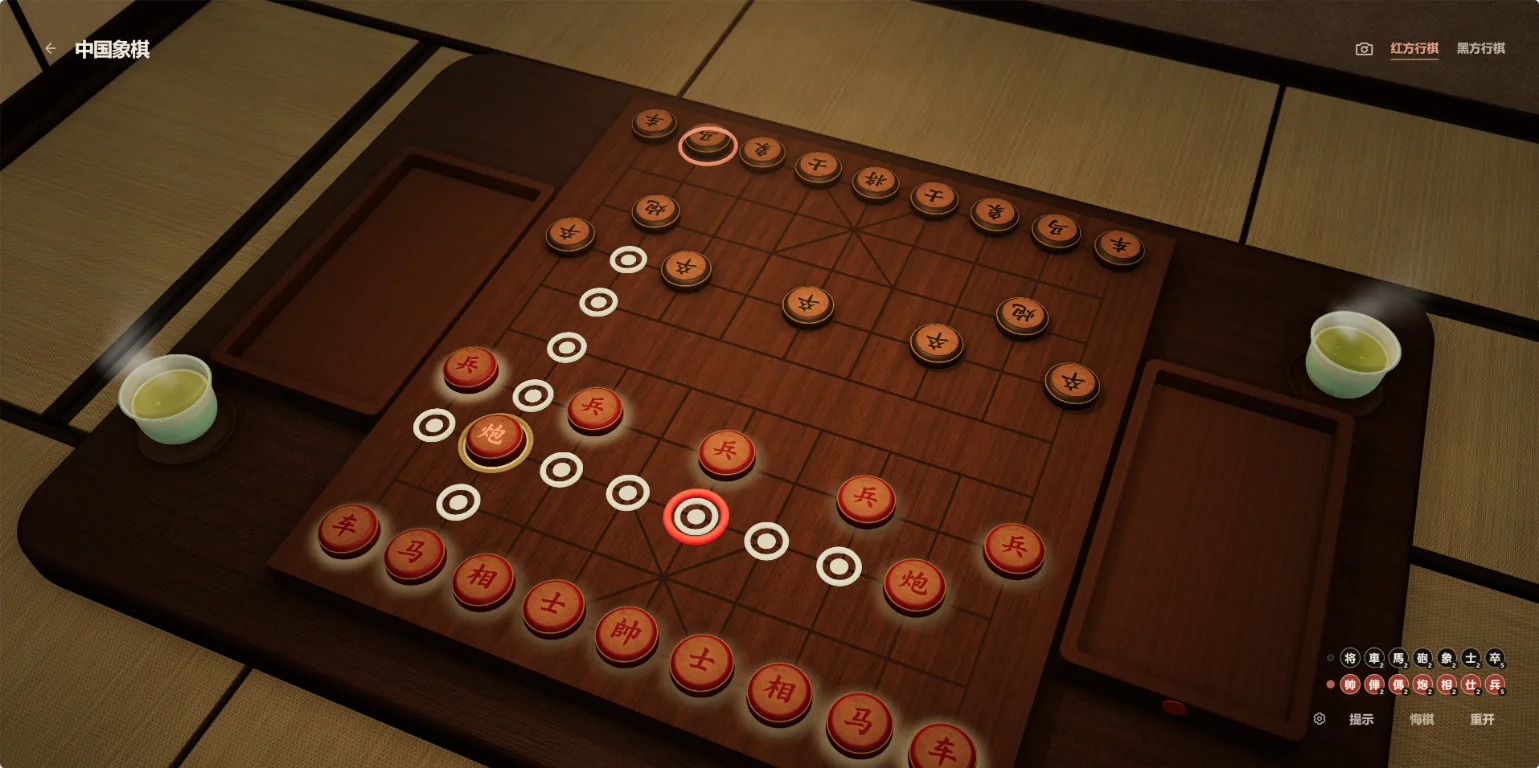
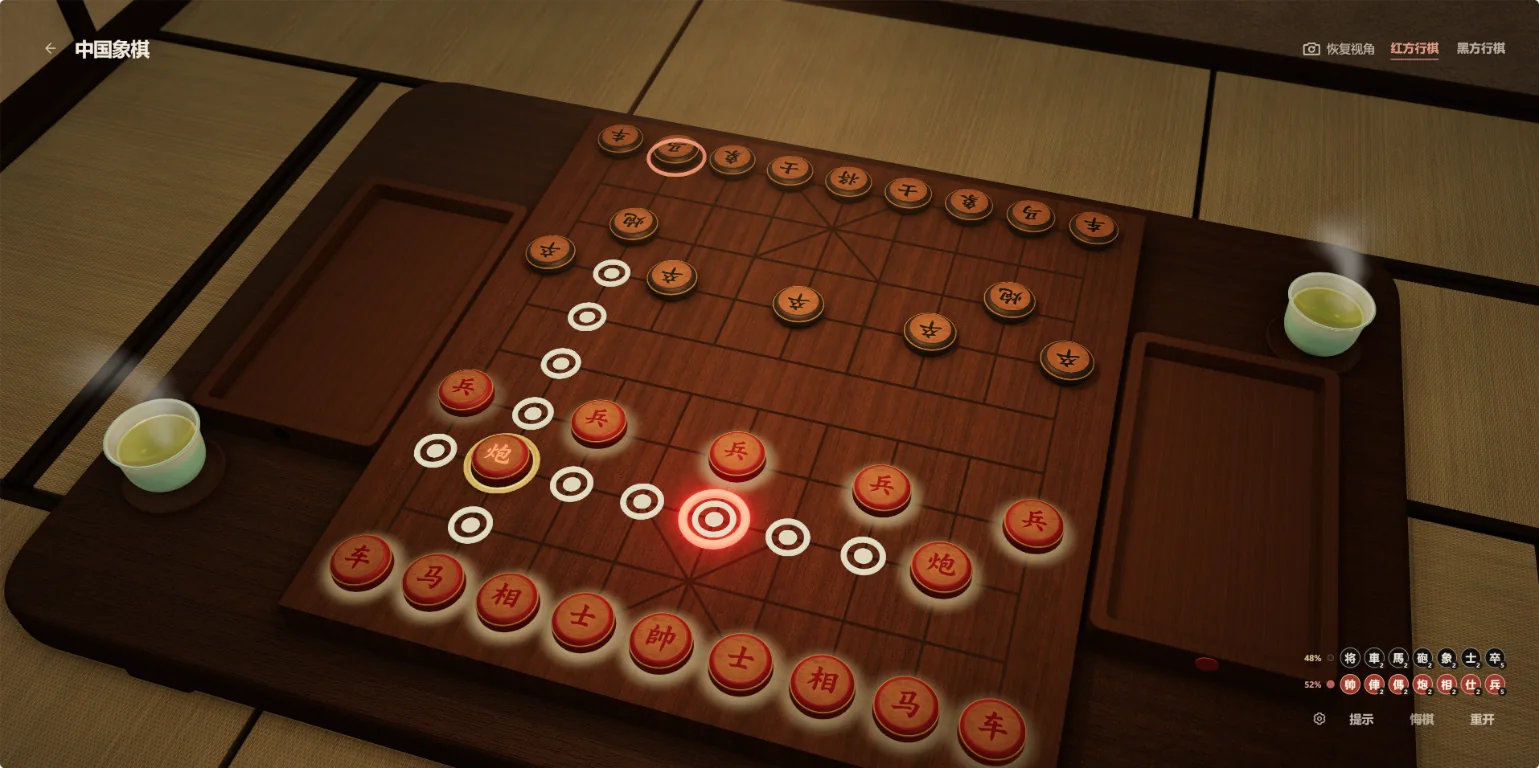
Refresh README screenshot and refine material rendering
Replace the README image with a compressed WebP and document the rendering techniques. Reuse the room reflection map on wood and pieces, add subtle procedural surface variation, and keep the reset-view label within the camera button.

diff --git a/src/board-renderer.ts b/src/board-renderer.ts
@@ -204,6 +204,7 @@ export class BoardRenderer {
   private wasPortrait = false;
   private pendingViewSide: number | null = null;
   private pieceAtlas: THREE.Texture | null = null;
+  private environmentMap!: THREE.Texture;
   private hoveredPiece: ChessPiece | null = null;
   private readonly menuGlyphStrength = new THREE.Uniform(0);
   private readonly pieceGlyphs = new Map<THREE.Group, PieceGlyphGlow>();
@@ -270,6 +271,7 @@ export class BoardRenderer {
     this.buildEnvironment();
     this.buildBoard();
     this.room = new ChessRoom(this.scene, this.boardSurface.material, this.renderer);
+    this.environmentMap = this.room.environmentMap;
     const sceneDepth = this.ssaoPass.normalRenderTarget.depthTexture;
     if (!sceneDepth) throw new Error("Room atmosphere requires the scene depth texture.");
     this.atmospherePass = new RoomAtmospherePass(
@@ -899,7 +901,23 @@ export class BoardRenderer {
       metalness: 0.02,
       clearcoat: 0.12,
       clearcoatRoughness: 0.5,
+      envMap: this.environmentMap,
+      envMapIntensity: 0.22,
     });
+    bodyMaterial.onBeforeCompile = shader => {
+      shader.vertexShader = `varying vec3 vPieceSurfacePosition;\n${shader.vertexShader}`.replace(
+        "#include <begin_vertex>",
+        "#include <begin_vertex>\nvPieceSurfacePosition = transformed;",
+      );
+      shader.fragmentShader = `varying vec3 vPieceSurfacePosition;\n${shader.fragmentShader}`.replace(
+        "#include <roughnessmap_fragment>",
+        `#include <roughnessmap_fragment>
+float pieceSurfaceGrain = sin(vPieceSurfacePosition.x * 31.0 + sin(vPieceSurfacePosition.y * 17.0))
+  * sin(vPieceSurfacePosition.z * 27.0 + vPieceSurfacePosition.y * 9.0);
+roughnessFactor = clamp(roughnessFactor + pieceSurfaceGrain * 0.012, 0.0, 1.0);`,
+      );
+    };
+    bodyMaterial.customProgramCacheKey = () => "piece-body-surface-grain";
     const body = new THREE.Mesh(
       new THREE.LatheGeometry(
         [
@@ -929,6 +947,8 @@ export class BoardRenderer {
         roughness: 0.4,
         metalness: 0.28,
         clearcoat: 0.18,
+        envMap: this.environmentMap,
+        envMapIntensity: 0.32,
       }),
     );
     rim.rotation.x = Math.PI / 2;

diff --git a/src/chess-room.ts b/src/chess-room.ts
@@ -346,6 +346,7 @@ export class ChessRoom {
   private readonly loader = new FetchTextureLoader();
   private readonly textures = new Set<THREE.Texture>();
   private readonly environment: THREE.WebGLRenderTarget;
+  readonly environmentMap: THREE.Texture;
   private readonly teaMaterial: THREE.MeshPhysicalMaterial;
   private readonly cups: TeaCup[] = [];
   private drink: DrinkState | null = null;
@@ -383,6 +384,10 @@ export class ChessRoom {
     renderer: THREE.WebGLRenderer,
   ) {
     this.environment = roomReflections(renderer);
+    this.environmentMap = this.environment.texture;
+    sourceWood.envMap = this.environmentMap;
+    sourceWood.envMapIntensity = 0.12;
+    sourceWood.needsUpdate = true;
     this.teaMaterial = new THREE.MeshPhysicalMaterial({
       color: "#ffffff",
       vertexColors: true,
@@ -601,15 +606,20 @@ reflectedLight.directSpecular *= ambientOcclusion;
     ];
     for (const material of woods) {
       const sharesAo = material !== this.tableTopMaterial;
+      const envMapIntensity = material === this.saucerMaterial ? 0.18 : 0.1;
       if (
         material.map === source.map &&
         material.normalMap === source.normalMap &&
         material.roughnessMap === source.roughnessMap &&
-        (!sharesAo || material.aoMap === source.aoMap)
+        (!sharesAo || material.aoMap === source.aoMap) &&
+        material.envMap === this.environmentMap &&
+        material.envMapIntensity === envMapIntensity
       ) continue;
       material.map = source.map;
       material.normalMap = source.normalMap;
       material.roughnessMap = source.roughnessMap;
+      material.envMap = this.environmentMap;
+      material.envMapIntensity = envMapIntensity;
       material.normalScale.copy(source.normalScale);
       // The small saucer needs its grain relief exaggerated to read at all.
       if (material === this.saucerMaterial) material.normalScale.multiplyScalar(2.5);

diff --git a/src/styles.css b/src/styles.css
@@ -489,6 +489,38 @@ button svg {
   gap: 20px;
 }
 
+.view-label {
+  position: relative;
+  color: inherit;
+  font-size: 20px;
+  line-height: 1;
+  white-space: nowrap;
+  transition: text-shadow 220ms ease;
+}
+
+.view-label::after {
+  position: absolute;
+  right: 0;
+  bottom: -7px;
+  left: 0;
+  height: 3px;
+  background: currentcolor;
+  content: "";
+  transform: scaleX(0);
+  transform-origin: left center;
+  transition: transform 280ms cubic-bezier(0.2, 0.75, 0.25, 1);
+}
+
+.view-button:hover .view-label,
+.view-button:focus-visible .view-label {
+  text-shadow: 0 0 9px rgb(243 231 208 / 72%);
+}
+
+.view-button:hover .view-label::after,
+.view-button:focus-visible .view-label::after {
+  transform: scaleX(1);
+}
+
 .hud-button {
   display: inline-flex;
   width: 48px;
@@ -596,8 +628,10 @@ button svg {
 }
 
 .view-button {
-  width: 48px;
+  width: auto;
   height: 48px;
+  gap: 8px;
+  padding: 0 6px;
 }
 
 .view-button svg {
@@ -1025,6 +1059,10 @@ button svg {
     gap: 8px;
   }
 
+  .view-label {
+    font-size: 16px;
+  }
+
   .turn-statuses {
     gap: 8px;
   }
@@ -1035,8 +1073,10 @@ button svg {
   }
 
   .view-button {
-    width: 40px;
+    width: auto;
     height: 40px;
+    gap: 5px;
+    padding: 0 4px;
   }
 
   .view-button svg {

diff --git a/index.html b/index.html
@@ -204,6 +204,7 @@
               <path d="M4 8h3l1.5-2h7L17 8h3a1 1 0 0 1 1 1v9a1 1 0 0 1-1 1H4a1 1 0 0 1-1-1V9a1 1 0 0 1 1-1z" />
               <path d="M14.6 11.2A3.2 3.2 0 1 0 15.2 13.5M15.2 10.2v1.3h-1.3" />
             </svg>
+            <span class="view-label" data-i18n="恢复视角">恢复视角</span>
           </button>
           <div class="turn-statuses" id="turn-statuses" role="status" aria-label="当前回合">
             <span class="turn-state turn-state-red is-active" id="red-turn-state" data-i18n="红方行棋">红方行棋</span>

diff --git a/README.md b/README.md
@@ -27,6 +27,7 @@ Play Chinese chess with a friend in a quiet Japanese-style tea room, or challeng
 ### Technology & credits
 
 - Tech stack: Three.js and TypeScript.
+- Graphics: PBR materials, a procedurally generated room reflection map, soft shadows, contact occlusion, SSAO, SMAA, bloom, depth of field, and volumetric lighting.
 - The 3D scene and models were AI-assisted; textures were AI-assisted and prepared for the game.
 - Sound effects were generated with EventLabs.
 - The computer opponent is [Pikafish](https://github.com/official-pikafish/Pikafish) (GPLv3, WebAssembly build running locally in the browser; the NNUE weights are for non-commercial use only).
@@ -58,6 +59,7 @@ Play Chinese chess with a friend in a quiet Japanese-style tea room, or challeng
 ### 技术与制作
 
 - 技术栈：Three.js、TypeScript。
+- 图形学：PBR 材质、程序生成的室内反射、软阴影、接触阴影、SSAO、SMAA 抗锯齿、泛光、景深与体积光。
 - 3D 场景与模型由 AI 辅助构建，贴图由 AI 辅助生成并整理。
 - 音效由 EventLabs 生成。
 - 电脑对手使用 [Pikafish](https://github.com/official-pikafish/Pikafish)（GPLv3，WebAssembly 版，在浏览器本地运行；NNUE 权重仅限非商业用途）。
